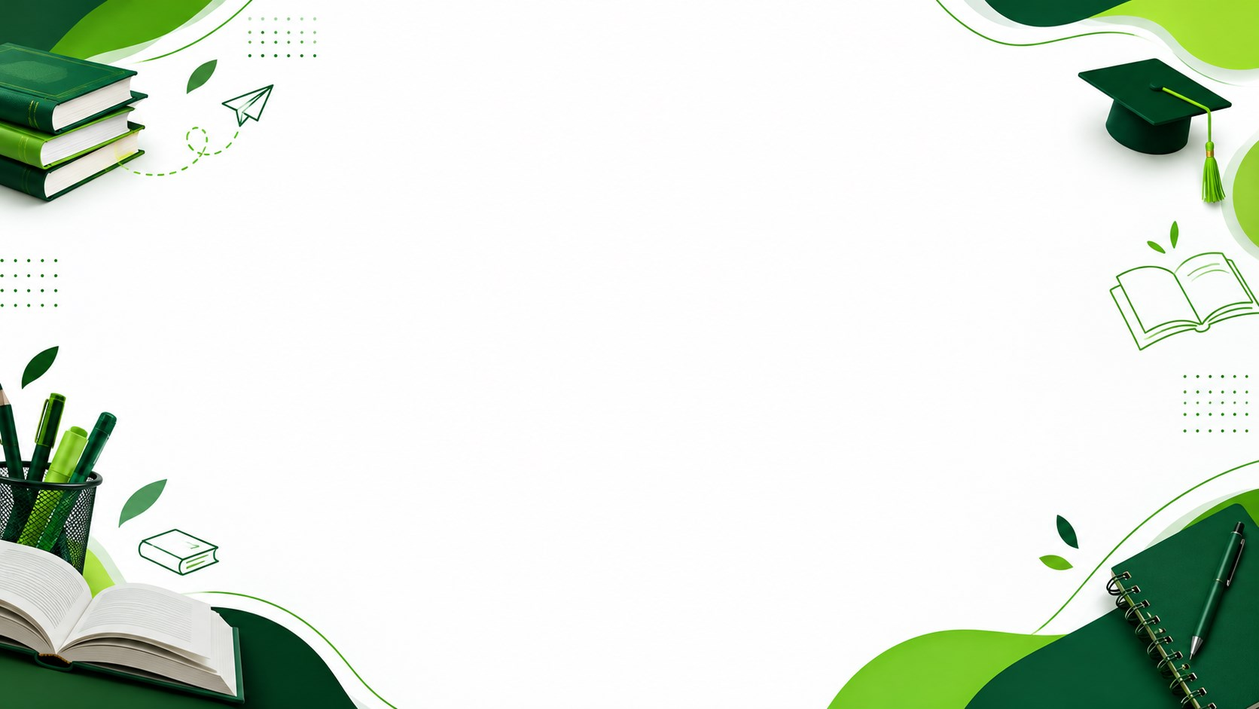
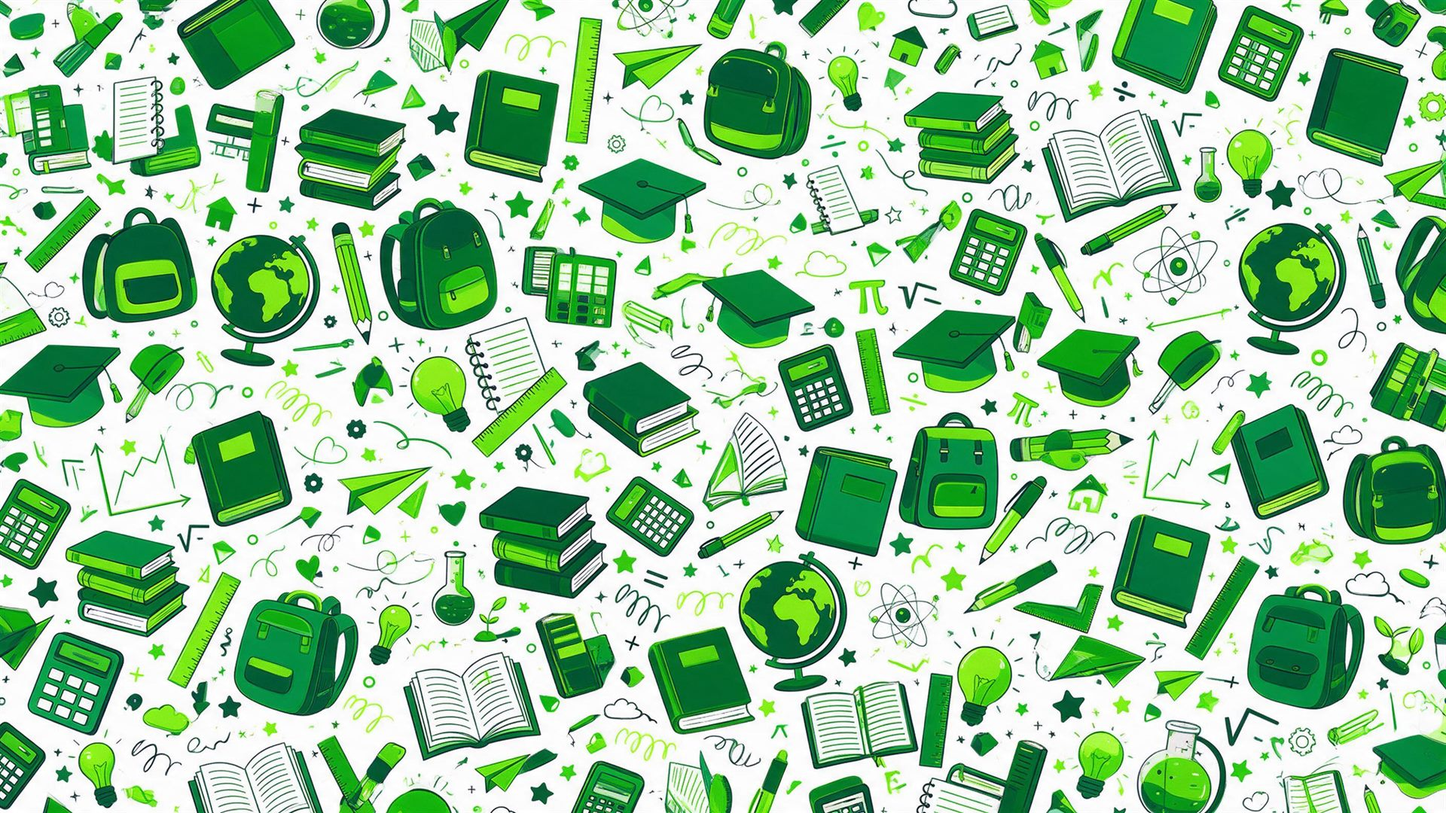
feat: nouvelle illustration de fond pour les pages auth

diff --git a/frontend/src/data/landing.ts b/frontend/src/data/landing.ts
@@ -7,7 +7,7 @@ import hero5Img from "@/assets/images/hero-5.jpg";
 import hero6Img from "@/assets/images/hero-6.jpg";
 import aboutImg from "@/assets/images/about-home.jpg";
 import authImg from "@/assets/images/auth.jpg";
-import authBackgroundImg from "@/assets/images/auth-background.png";
+import authBackgroundImg from "@/assets/images/auth-background.jpg";
 import inscriptionsImg from "@/assets/images/feature-inscriptions.jpg";
 import bulletinsImg from "@/assets/images/feature-bulletins.jpg";
 import paiementsImg from "@/assets/images/feature-paiements.jpg";
